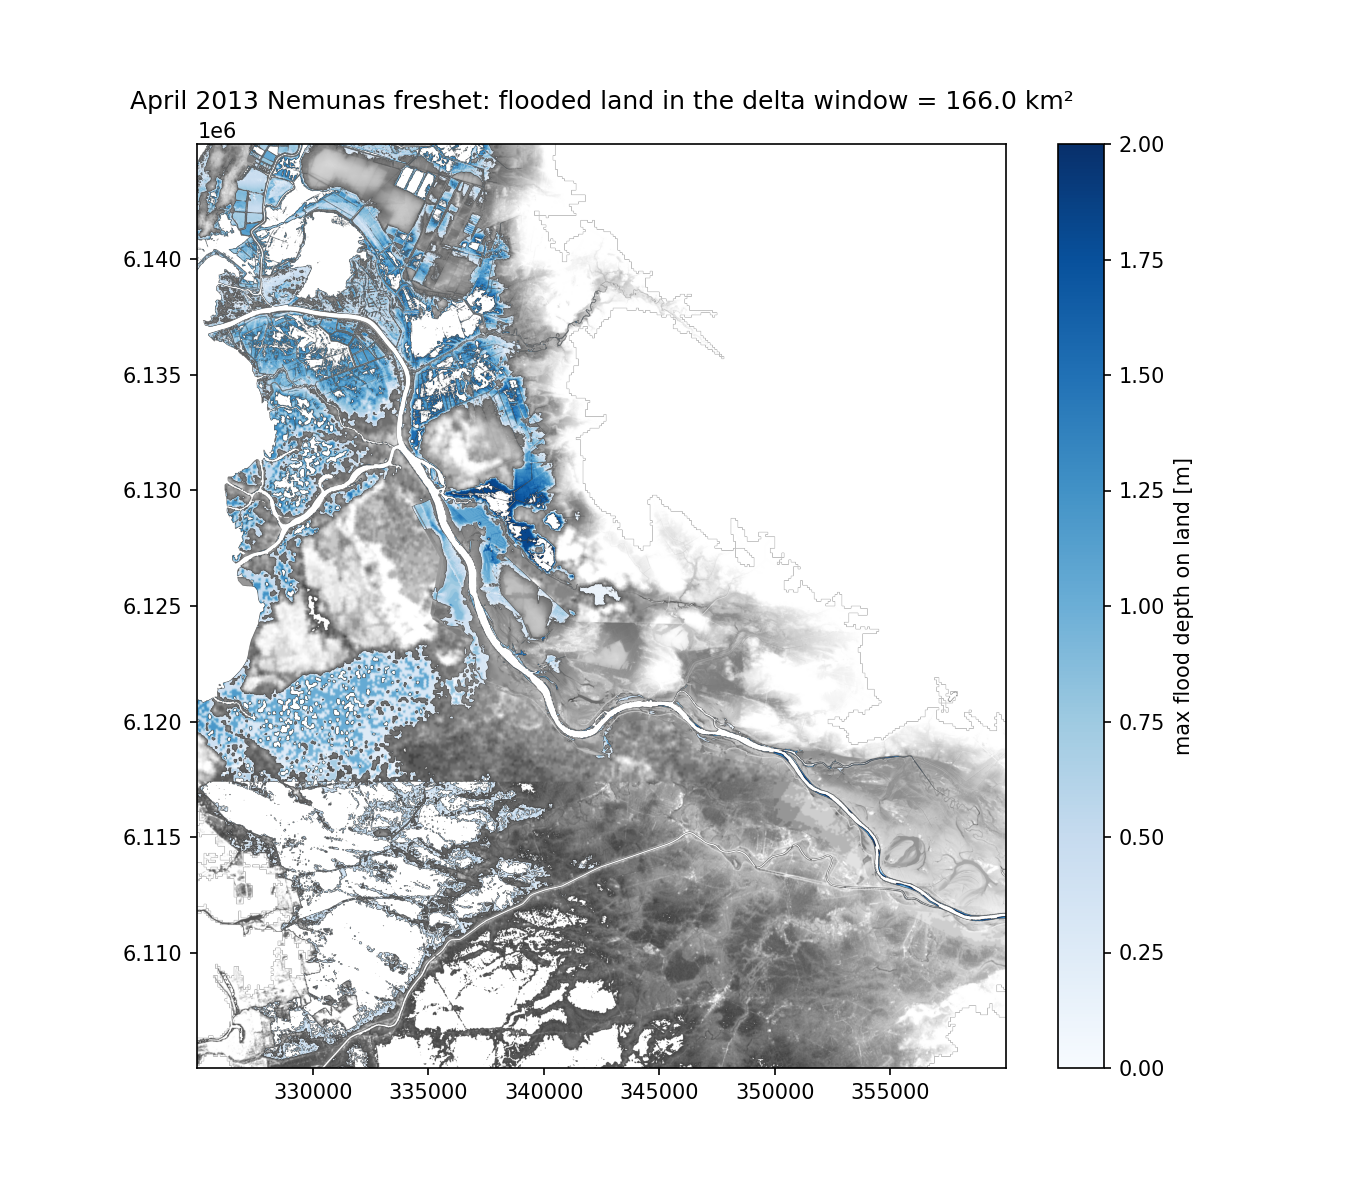
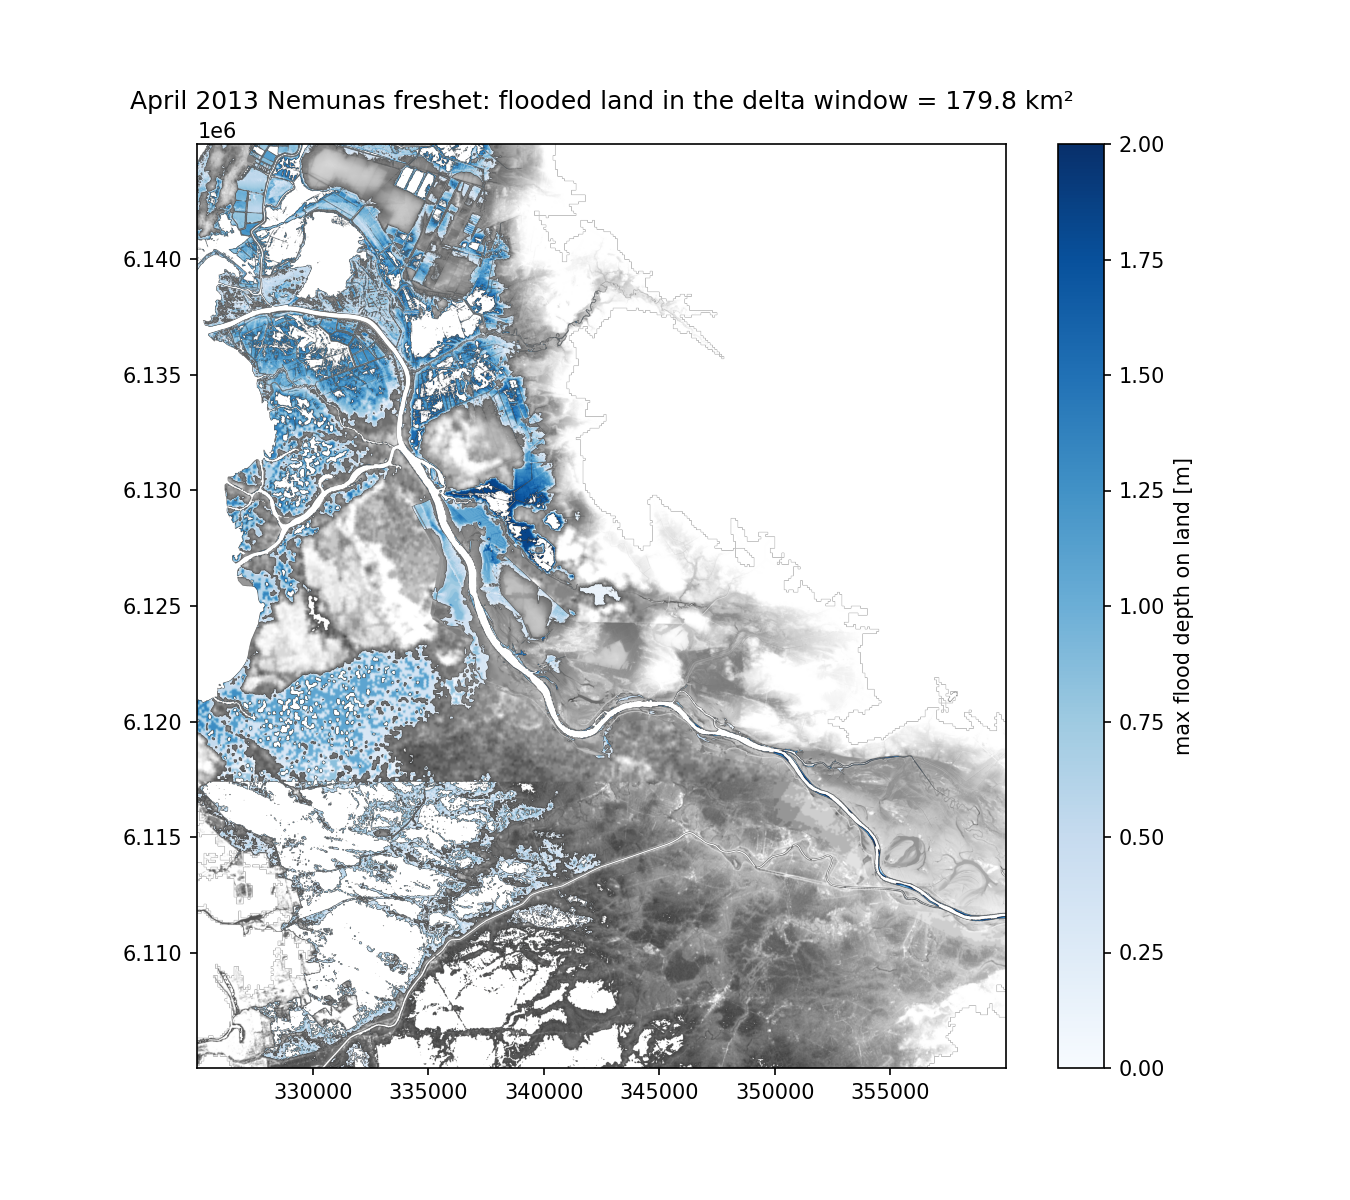
Re-run April on the corrected bathymetry, and record what it ruled out
The strait bar was real and is fixed, but it was not the cause. Removing it
changed the bed at the throat from a flat 0.00 m to real varying bathymetry
(-3.8 to -0.26 m), made a formerly inactive cell active and contiguous with the
-12 m dredged channel, and gave the throat a cross-section that grows with
stage. None of that changed the outcome: every verdict stands, and two moved
the wrong way -- A1 from +0.78 to +0.88 m, A3 from +0.68 to +0.73 m, with the
drained fraction falling from ~26% to ~21%.

The reason it could not have helped is worth more than the fix. A seed-and-
bisect connectivity check puts the lagoon-to-sea sill at +0.02 m both before
and after, and Juodkrante's modelled series is identical across the two runs.
The lagoon was already connected to the sea at a low threshold; the bar at the
row that was examined was never the binding constraint. The retention is a
distributed conveyance limit at a narrow, partly shallow throat, not a binary
block. The ~0.10 m worsening is unexplained and is not attributed.

Also ruled out: the apparent hydraulic step at Juodkrante. Its point in
stations.geojson sits 1.7 km west of the lagoon shore, on the seaward side of
the spit, so it reports Baltic sea level. Not one of the four scored gauges,
so no criterion was affected, but the point should be moved.

The Xaver results carry a caveat rather than a re-run. They were produced over
the old bar, so they are no longer exactly reproducible from the current
[…]

diff --git a/curonian/README.md b/curonian/README.md
@@ -71,6 +71,17 @@ Tests: `micromamba run -n hydromt-sfincs python -m pytest tests -q`
 
 ## Results: Xaver 2013
 
+> **Caveat (2026-09-16).** These runs were built over a defect in
+> `lagoon_bathy_50m.tif` that placed a bed at exactly 0.00 m across the
+> Klaipeda strait — see *A ruled-out cause* under **Results: April 2013**.
+> `make_bathymetry` has since been corrected, so the bathymetry that produced
+> the numbers below is no longer what the code generates, and they are not
+> exactly reproducible from the current checkout. They have deliberately not
+> been re-run: the defect restricted outflow, and Xaver is a surge event that
+> pushes water *into* the lagoon, so it is far less sensitive to outflow
+> capacity than a freshet is. Re-running all three variants would be the way
+> to remove the caveat rather than carry it.
+
 Full validation output: `results/xaver_2013/validation.md`,
 `results/xaver_2013/validation_timeseries.png` (time series) and
 `results/xaver_2013/flood_extent_delta.png` (delta flood-extent map).
@@ -295,26 +306,26 @@ Whole period: 2013-04-05 00:00 to 2013-05-02 00:00
 | station | n | bias m | RMSE m | r | peak err m | peak dt h |
 |---|---|---|---|---|---|---|
 | Klaipeda | 27 | -0.12 | 0.15 | 0.73 | -0.15 | +19 |
-| Nida | 54 | +0.43 | 0.55 | 0.95 | +0.94 | +78 |
-| Vente | 54 | +0.56 | 0.66 | 0.95 | +1.03 | +120 |
-| Uostadvaris | 27 | +0.36 | 0.47 | 0.90 | +0.78 | +144 |
+| Nida | 54 | +0.45 | 0.60 | 0.95 | +1.05 | +78 |
+| Vente | 54 | +0.58 | 0.70 | 0.95 | +1.14 | +162 |
+| Uostadvaris | 27 | +0.38 | 0.51 | 0.89 | +0.89 | +186 |
 
 Scoring window: 2013-04-13 00:00 to 2013-05-02 00:00
 
 | station | n | bias m | RMSE m | r | peak err m | peak dt h |
 |---|---|---|---|---|---|---|
 | Klaipeda | 19 | -0.16 | 0.18 | 0.77 | -0.15 | +19 |
-| Nida | 38 | +0.60 | 0.66 | 0.96 | +0.93 | +72 |
-| Vente | 38 | +0.73 | 0.78 | 0.94 | +1.03 | +120 |
-| Uostadvaris | 19 | +0.48 | 0.55 | 0.81 | +0.78 | +144 |
+| Nida | 38 | +0.64 | 0.71 | 0.95 | +1.04 | +72 |
+| Vente | 38 | +0.77 | 0.82 | 0.94 | +1.13 | +156 |
+| Uostadvaris | 19 | +0.51 | 0.60 | 0.80 | +0.88 | +144 |
 
-Flooded land in the delta window (depth > 5 cm, ground > 0 m): **166.0 km²**
+Flooded land in the delta window (depth > 5 cm, ground > 0 m): **179.8 km²**
 
 ### Success criteria (spec section 9)
-- A1 Uostadvaris peak [2013-04-13 00:00 to 2013-05-02 00:00]: **not met** -- model peak 1.32 m vs gauge 0.54 m, err +0.78 m (threshold: peak err within +/-0.15 m)
-- A2a filling rate [first crossing of +0.20 m]: **not met** -- model 2013-04-15 14:10 vs gauge (interpolated) 2013-04-19 08:00, dt -90 h (threshold: within +/-24 h of the observed crossing)
+- A1 Uostadvaris peak [2013-04-13 00:00 to 2013-05-02 00:00]: **not met** -- model peak 1.43 m vs gauge 0.54 m, err +0.88 m (threshold: peak err within +/-0.15 m)
+- A2a filling rate [first crossing of +0.20 m]: **not met** -- model 2013-04-15 13:50 vs gauge (interpolated) 2013-04-19 08:00, dt -90 h (threshold: within +/-24 h of the observed crossing)
 - A2b crest timing [2013-04-21 18:00 to 2013-04-24 18:00]: **not met** -- model peak 2013-04-30 05:30; observed plateau 22 Apr-24 Apr (threshold: model peak inside the observed plateau +/-12 h)
-- A3 delta-to-sea head [2013-04-22 00:00 to 2013-04-26 00:00]: **not met** -- model 1.16 m vs gauge 0.48 m over 5 readings, err +0.68 m (threshold: mean head within +/-0.15 m)
+- A3 delta-to-sea head [2013-04-22 00:00 to 2013-04-26 00:00]: **not met** -- model 1.20 m vs gauge 0.48 m over 5 readings, err +0.73 m (threshold: mean head within +/-0.15 m)
 - A4 Klaipeda control [2013-04-13 00:00 to 2013-05-02 00:00]: **not met** -- RMSE 0.176 m against an observed sd of 0.089 m (threshold: RMSE <= 0.085 m (below the observed sd of 0.089 m: a flat series fails))
 - A5 Silute uplands [whole run, delta window (325000, 6105000, 360000, 6145000)]: **met** -- 0.00% of land with ground > 3 m flooded (threshold: < 1 % flooded)
 
@@ -422,17 +433,56 @@ readings, 19 h is inside the observation's own resolution).
   the model cannot pass a sustained one through: it fills at close to the
   right rate and shape, then holds most of what it filled with.
 - This mass balance identifies *that* the lagoon does not drain; it does not
-  by itself identify *which* model ingredient is responsible. Three
-  candidates are named here, not concluded from this run: the sea boundary's
-  static calm-window bias correction (spec section 10, limitation 5) accounts
-  for the −0.16 m measured at Klaipeda but not the +0.78 m peak error 42 km
-  inside the lagoon; the Klaipeda strait, hand-digitised at roughly 400 m wide
+  by itself identify *which* model ingredient is responsible. Two candidates
+  remain open, named here rather than concluded: the sea boundary's static
+  calm-window bias correction (spec section 10, limitation 5) accounts for the
+  −0.16 m measured at Klaipeda but not the +0.88 m peak error 42 km inside the
+  lagoon; and the Klaipeda strait, hand-digitised at roughly 400 m wide
   (`../docs/superpowers/specs/2026-09-04-curonian-lagoon-xaver-model-design.md`,
-  section 4) but represented on this model's 100 m grid, may under-resolve
-  the cross-section that actually carries the outflow; and the Juodkrante
-  step above may point at the same conveyance problem sitting further north,
-  in the narrow lagoon rather than the strait itself. None of the three is
-  tested by this run; all three remain open items, unranked.
+  section 4) but represented on this model's 100 m grid, may under-resolve the
+  cross-section that actually carries the outflow. A third candidate — an
+  apparent hydraulic step at Juodkrante — was investigated and ruled out: the
+  station point in `inputs/stations.geojson` sits 1.7 km west of the lagoon
+  shore, on the seaward side of the Curonian Spit, so it reports Baltic sea
+  level rather than a lagoon level. Juodkrante is not one of the four scored
+  gauges, so no criterion is affected, but the point should be moved.
+
+### A ruled-out cause: the bathymetry dam at the strait
+
+Worth recording because it was a real defect, it was fixed, and fixing it did
+**not** resolve the drainage failure — which narrows the search.
+
+`make_bathymetry` anchors depth 0 at every vertex of the lagoon polygon's
+boundary, so that the interpolator does not carry isobath depths up to the
+bank. Where the polygon narrows into the Klaipeda strait it is only 570–770 m
+wide, so both banks are zero-anchored: at (318050, 6179500), 188 of the
+anchors within 600 m were depth 0.0, the nearest 12 m away.
+`LinearNDInterpolator` between all-zero banks returned ~0 depth, and
+`elev = -np.clip(z, 0, 10)` made the bed **exactly 0.00 m** across the neck.
+Because `lagoon_bathy_50m` is first in `build_model.DATASETS_DEP`, that bar
+overrode EMODnet and the DEM at the one place the lagoon can drain.
+
+The fix (`STRAIT_CLIP_NORTHING = 6174500`) clips the polygon this raster
+covers at the measured transition from lagoon (1330–1754 m wide) to strait
+channel (570–725 m), so the strait falls back to EMODnet — which is what this
+module's docstring always said it intended. A regression test pins it.
+
+It worked as a bathymetry change and not at all as a fix. The bar became real
+varying bed (−3.8 to −0.26 m), a formerly inactive cell at x=317950 became
+active and contiguous with the −12 m dredged channel, and throat area now
+grows with stage. But a seed-and-bisect connectivity check returns a
+lagoon-to-sea sill of **+0.02 m both before and after**, and Juodkrante's
+modelled series is identical across the two runs: the lagoon was already
+connected at a low threshold, so the bar was never the binding constraint.
+Re-running the event changed no verdict and moved two the wrong way — A1 from
++0.78 to +0.88 m, A3 from +0.68 to +0.73 m, with the drained fraction falling
+from ~26 % to ~21 %. That ~0.10 m is unexplained and is not attributed here.
+
+The results above are from the corrected bathymetry. **The published Xaver
+results in this file were produced over the old bar** and have not been
+re-run: a surge event is far less sensitive to outflow capacity than a
+freshet, but their numbers are no longer exactly reproducible from the current
+`make_bathymetry`, and that caveat travels with them.
 
 ## Reproducing from a clean checkout
 

diff --git a/curonian/results/april_2013/validation.md b/curonian/results/april_2013/validation.md
@@ -5,25 +5,25 @@ Whole period: 2013-04-05 00:00 to 2013-05-02 00:00
 | station | n | bias m | RMSE m | r | peak err m | peak dt h |
 |---|---|---|---|---|---|---|
 | Klaipeda | 27 | -0.12 | 0.15 | 0.73 | -0.15 | +19 |
-| Nida | 54 | +0.43 | 0.55 | 0.95 | +0.94 | +78 |
-| Vente | 54 | +0.56 | 0.66 | 0.95 | +1.03 | +120 |
-| Uostadvaris | 27 | +0.36 | 0.47 | 0.90 | +0.78 | +144 |
+| Nida | 54 | +0.45 | 0.60 | 0.95 | +1.05 | +78 |
+| Vente | 54 | +0.58 | 0.70 | 0.95 | +1.14 | +162 |
+| Uostadvaris | 27 | +0.38 | 0.51 | 0.89 | +0.89 | +186 |
 
 Scoring window: 2013-04-13 00:00 to 2013-05-02 00:00
 
 | station | n | bias m | RMSE m | r | peak err m | peak dt h |
 |---|---|---|---|---|---|---|
 | Klaipeda | 19 | -0.16 | 0.18 | 0.77 | -0.15 | +19 |
-| Nida | 38 | +0.60 | 0.66 | 0.96 | +0.93 | +72 |
-| Vente | 38 | +0.73 | 0.78 | 0.94 | +1.03 | +120 |
-| Uostadvaris | 19 | +0.48 | 0.55 | 0.81 | +0.78 | +144 |
+| Nida | 38 | +0.64 | 0.71 | 0.95 | +1.04 | +72 |
+| Vente | 38 | +0.77 | 0.82 | 0.94 | +1.13 | +156 |
+| Uostadvaris | 19 | +0.51 | 0.60 | 0.80 | +0.88 | +144 |
 
-Flooded land in the delta window (depth > 5 cm, ground > 0 m): **166.0 km²**
+Flooded land in the delta window (depth > 5 cm, ground > 0 m): **179.8 km²**
 
 ### Success criteria (spec section 9)
-- A1 Uostadvaris peak [2013-04-13 00:00 to 2013-05-02 00:00]: **not met** -- model peak 1.32 m vs gauge 0.54 m, err +0.78 m (threshold: peak err within +/-0.15 m)
-- A2a filling rate [first crossing of +0.20 m]: **not met** -- model 2013-04-15 14:10 vs gauge (interpolated) 2013-04-19 08:00, dt -90 h (threshold: within +/-24 h of the observed crossing)
+- A1 Uostadvaris peak [2013-04-13 00:00 to 2013-05-02 00:00]: **not met** -- model peak 1.43 m vs gauge 0.54 m, err +0.88 m (threshold: peak err within +/-0.15 m)
+- A2a filling rate [first crossing of +0.20 m]: **not met** -- model 2013-04-15 13:50 vs gauge (interpolated) 2013-04-19 08:00, dt -90 h (threshold: within +/-24 h of the observed crossing)
 - A2b crest timing [2013-04-21 18:00 to 2013-04-24 18:00]: **not met** -- model peak 2013-04-30 05:30; observed plateau 22 Apr-24 Apr (threshold: model peak inside the observed plateau +/-12 h)
-- A3 delta-to-sea head [2013-04-22 00:00 to 2013-04-26 00:00]: **not met** -- model 1.16 m vs gauge 0.48 m over 5 readings, err +0.68 m (threshold: mean head within +/-0.15 m)
+- A3 delta-to-sea head [2013-04-22 00:00 to 2013-04-26 00:00]: **not met** -- model 1.20 m vs gauge 0.48 m over 5 readings, err +0.73 m (threshold: mean head within +/-0.15 m)
 - A4 Klaipeda control [2013-04-13 00:00 to 2013-05-02 00:00]: **not met** -- RMSE 0.176 m against an observed sd of 0.089 m (threshold: RMSE <= 0.085 m (below the observed sd of 0.089 m: a flat series fails))
 - A5 Silute uplands [whole run, delta window (325000, 6105000, 360000, 6145000)]: **met** -- 0.00% of land with ground > 3 m flooded (threshold: < 1 % flooded)
